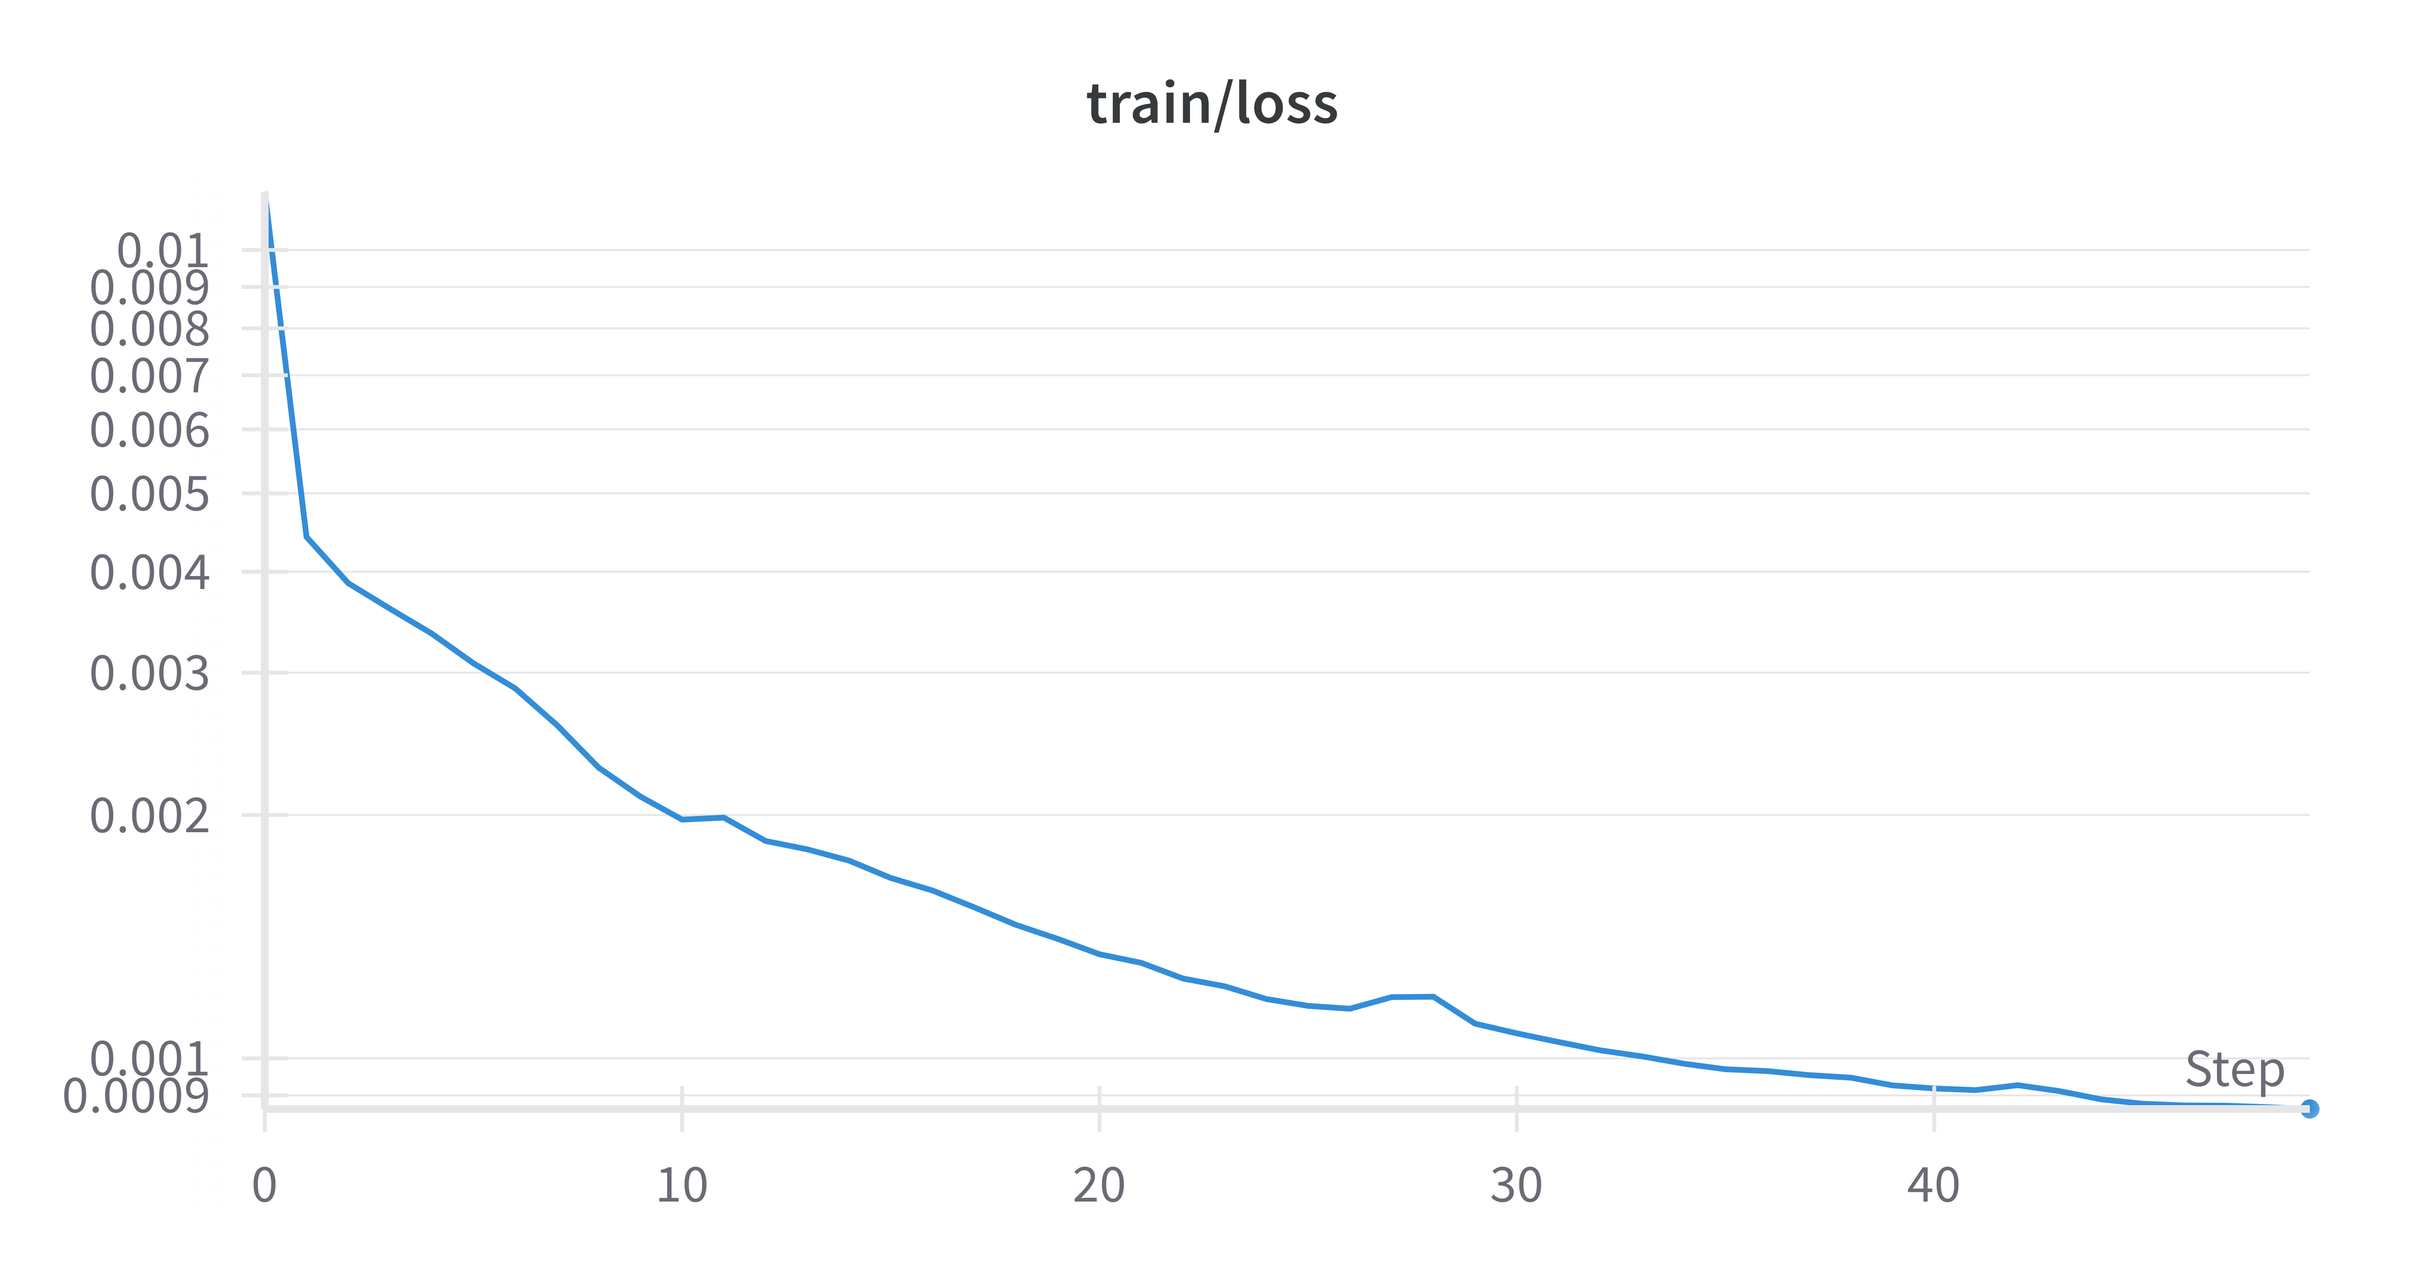
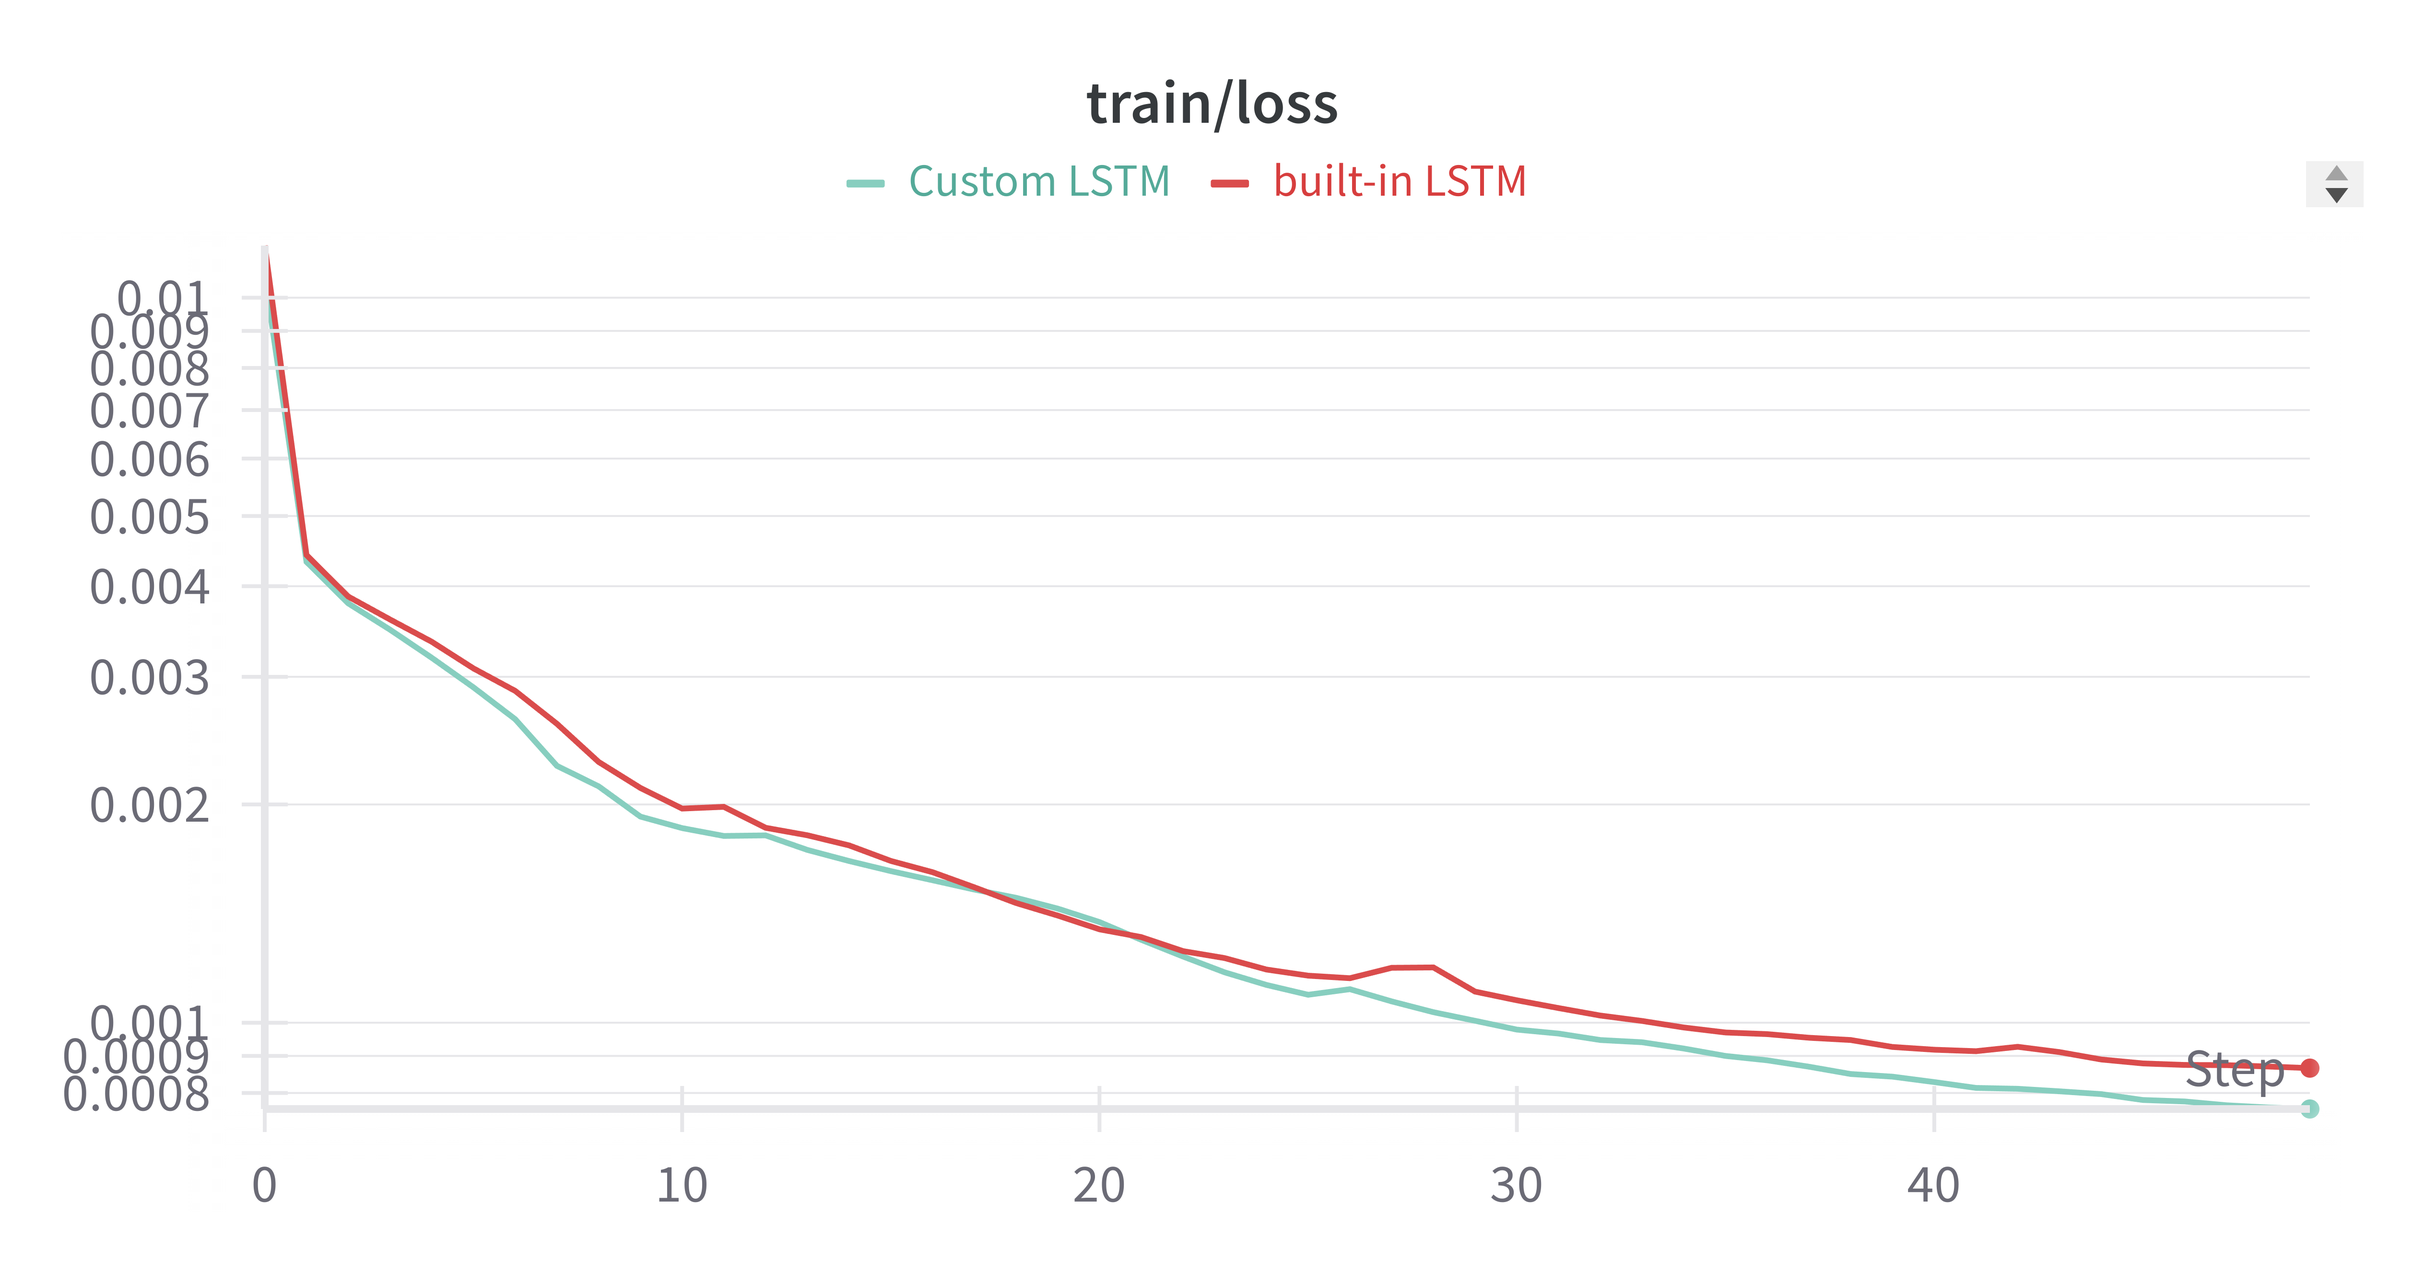
docs: expand README with detailed LSTM model implementation and evaluation
- Adds comprehensive details on LSTM-based world model architecture, training procedure, and results
- Includes custom LSTM layer implementation and comparison with built-in LSTM
- Describes rollout strategies and their evaluation, highlighting error accumulation and stability
- Proposes potential improvements such as scheduled sampling, transformer models, and data augmentation

diff --git a/hw2/submit/part1-rnn/README.md b/hw2/submit/part1-rnn/README.md
@@ -1,48 +1,253 @@
 # Part 1: Modeling World Dynamics with Recurrent Neural Networks
 
-## Task 1
+## Task 1: Define and Train an LSTM-based World Model
 
-- W&B Run: [ruby-wave-2](https://wandb.ai/liblaf-team/hw2-part1-rnn/runs/qxd37jgl)
-- Test Loss: `0.0011097531791569458`
+### Implementation Details
 
-###### Training Loss Curve
+The implementation used PyTorch's built-in `torch.nn.LSTM` layer. The LSTM model processes batched sequences of states and actions, outputting the predicted next state for each sequence in the batch.
 
-![Training Loss Curve](fig/task1/t1-train-loss.png)
+#### Data Preprocessing
 
-###### Validation Loss Curve
+- Each observation from the CarRacing environment is initially a $200 \times 200$ RGB image.
+- These images are downsampled to $32 \times 32$ to reduce computational load.
+- The preprocessed images are combined with action vectors to form the inputs to the LSTM model.
 
-![Validation Loss Curve](fig/task1/t1-val-loss.png)
+#### Model Architecture
 
-## Task 2
+- **Input Layer**: The input consists of a concatenation of the flattened image tensor and the action vector.
+- **LSTM Layer**: Captures temporal dependencies, crucial for effectively modeling sequence data.
+- **Output Layer**: A linear layer transforms the LSTM hidden states into the predicted next state.
 
-- W&B Run: [still-terrain-7](https://wandb.ai/liblaf-team/hw2-part1-rnn/runs/2e9l432o)
-- Test Loss: `0.0010881719515762394`
+Here's the core implementation of the LSTM model architecture:
 
-###### Training Loss Curve
+```python
+class WorldModel(nn.Module):
+    lstm: nn.LSTM
+    decoder: nn.Linear
 
-![Training Loss Curve](fig/task2/t2-train-loss.png)
+    def __init__(self, input_size: int, hidden_size: int, output_size: int) -> None:
+        super().__init__()
+        self.lstm = nn.LSTM(input_size=input_size, hidden_size=hidden_size)
+        self.decoder = nn.Linear(hidden_size, output_size)
 
-###### Validation Loss Curve
+    def forward(
+        self, state: BState, action: BAction, hidden: tuple[F1BH, F1BH]
+    ) -> tuple[BO, tuple[F1BH, F1BH]]:
+        batch_size: int = state.shape[0]
+        state_size: int = state.numel() // batch_size
+        action_size: int = action.numel() // batch_size
+        input_tensor: BI = torch.hstack(
+            [state.view(batch_size, state_size), action.view(batch_size, action_size)]
+        )
+        features, hidden = self.lstm(
+            input_tensor.view(1, batch_size, input_size), hidden
+        )
+        next_state_pred = self.decoder(features.view(batch_size, -1))
+        return next_state_pred, hidden
+```
 
-![Validation Loss Curve](fig/task2/t2-val-loss.png)
+### Training Procedure
 
-## Task 3
+- **Optimizer**: Adam optimizer with a learning rate of 0.0003.
+- **Loss Function**: Mean Squared Error (MSE) was used to measure the discrepancy between predicted and actual next states.
+- **Training Duration**: The model was trained for 50 epochs.
+- **Batch Size**: Set to 16.
+- **Sequence Length**: Each input sequence to the model contained 10 time steps.
 
-| Step |           Ground Truth            |           Teacher Forcing            |           Autoregressive Rollout            |
-| :--: | :-------------------------------: | :----------------------------------: | :-----------------------------------------: |
-|  0   | ![](fig/task3/ground-truth/0.png) | ![](fig/task3/teacher-forcing/0.png) | ![](fig/task3/autoregressive-rollout/0.png) |
-|  1   | ![](fig/task3/ground-truth/1.png) | ![](fig/task3/teacher-forcing/1.png) | ![](fig/task3/autoregressive-rollout/1.png) |
-|  2   | ![](fig/task3/ground-truth/2.png) | ![](fig/task3/teacher-forcing/2.png) | ![](fig/task3/autoregressive-rollout/2.png) |
-|  3   | ![](fig/task3/ground-truth/3.png) | ![](fig/task3/teacher-forcing/3.png) | ![](fig/task3/autoregressive-rollout/3.png) |
-|  4   | ![](fig/task3/ground-truth/4.png) | ![](fig/task3/teacher-forcing/4.png) | ![](fig/task3/autoregressive-rollout/4.png) |
-|  5   | ![](fig/task3/ground-truth/5.png) | ![](fig/task3/teacher-forcing/5.png) | ![](fig/task3/autoregressive-rollout/5.png) |
-|  6   | ![](fig/task3/ground-truth/6.png) | ![](fig/task3/teacher-forcing/6.png) | ![](fig/task3/autoregressive-rollout/6.png) |
-|  7   | ![](fig/task3/ground-truth/7.png) | ![](fig/task3/teacher-forcing/7.png) | ![](fig/task3/autoregressive-rollout/7.png) |
-|  8   | ![](fig/task3/ground-truth/8.png) | ![](fig/task3/teacher-forcing/8.png) | ![](fig/task3/autoregressive-rollout/8.png) |
-|  9   | ![](fig/task3/ground-truth/9.png) | ![](fig/task3/teacher-forcing/9.png) | ![](fig/task3/autoregressive-rollout/9.png) |
+The model's training and validation losses over epochs can be observed in the plot below:
 
-###### Rollout Loss Curve
+###### Training Loss
 
-![Loss](fig/task3/loss.png)
+![Training Loss](fig/task1/t1-train-loss.png)
 
-## Task 4
+###### Validation Loss
+
+![Validation Loss](fig/task1/t1-val-loss.png)
+
+### Results
+
+- **Test Loss**: `0.0011097531791569458`.
+
+The WandB run for this task can be viewed at [W&B Run](https://wandb.ai/liblaf-team/hw2-part1-rnn/runs/qxd37jgl).
+
+## Task 2: Implement an LSTM Layer from Scratch
+
+### Implementation Details
+
+#### Custom LSTM Architecture
+
+An LSTM cell consists of several components, primarily handling the various gates that regulate the flow of information:
+
+- **Input Gate** ($i_t$): Controls how much of the new input information flows into the cell state.
+- **Forget Gate** ($f_t$): Decides how much of the existing cell state information should be retained.
+- **Output Gate** ($o_t$): Determines which parts of the cell state are output to the hidden state.
+- **Cell State Update**: Integrates the new input and retained previous cell state information.
+
+The mathematical equations for these transformations are:
+
+$$
+\begin{align*}
+i_t &= \sigma(W_{xi} x_t + W_{hi} h_{t-1} + b_i) \\
+f_t &= \sigma(W_{xf} x_t + W_{hf} h_{t-1} + b_f) \\
+o_t &= \sigma(W_{xo} x_t + W_{ho} h_{t-1} + b_o) \\
+\tilde{c}_t &= \tanh(W_{xc} x_t + W_{hc} h_{t-1} + b_c) \\
+c_t &= f_t \cdot c_{t-1} + i_t \cdot \tilde{c}_t \\
+h_t &= o_t \cdot \tanh(c_t)
+\end{align*}
+$$
+
+#### Code Implementation
+
+The LSTM layer was implemented manually by explicitly defining these operations within the `LSTM` class, handling input transformation, state updates, and gate activations.
+
+```python
+class LSTM(nn.Module):
+    input_to_hidden: nn.Linear
+    hidden_to_hidden: nn.Linear
+    bias: nn.Parameter
+
+    def __init__(self, input_size: int, hidden_size: int) -> None:
+        super().__init__()
+        self.input_to_hidden = nn.Linear(input_size, 4 * hidden_size, bias=False)
+        self.hidden_to_hidden = nn.Linear(hidden_size, 4 * hidden_size, bias=False)
+        self.bias = nn.Parameter(torch.zeros(4 * hidden_size))
+
+    def forward(
+        self,
+        input: F1BI,
+        hidden: tuple[F1BH, F1BH],
+    ) -> tuple[BO, tuple[F1BH, F1BH]]:
+        hidden_state, cell_state = hidden
+        batch_size, input_size = input.shape[1], input.shape[-1]
+        hidden_size = hidden_state.shape[-1]
+
+        # Reshaping for batch processing
+        input = input.view(batch_size, input_size)
+        hidden_state = hidden_state.view(batch_size, hidden_size)
+        cell_state = cell_state.view(batch_size, hidden_size)
+
+        # LSTM gate operations
+        activation = (
+            self.input_to_hidden(input)
+            + self.hidden_to_hidden(hidden_state)
+            + self.bias
+        )
+
+        # Splitting and activating gates
+        ai, af, ao, ag = torch.split(activation, [hidden_size] * 4, dim=1)
+        input_gate = torch.sigmoid(ai)
+        forget_gate = torch.sigmoid(af)
+        output_gate = torch.sigmoid(ao)
+        block_input = torch.tanh(ag)
+
+        # Cell state and hidden state updates
+        next_cell_state = forget_gate * cell_state + input_gate * block_input
+        next_hidden_state = output_gate * torch.tanh(next_cell_state)
+
+        return next_hidden_state, (
+            next_hidden_state.view(1, batch_size, hidden_size),
+            next_cell_state.view(1, batch_size, hidden_size),
+        )
+```
+
+#### Model Training
+
+The training loop for this custom LSTM was kept consistent with Task 1 to enable a fair performance comparison:
+
+- **Optimizer**: Adam optimizer with a learning rate of 0.0003.
+- **Loss Function**: Mean Squared Error (MSE) to measure prediction accuracy.
+- **Epoch Count**: 50 epochs.
+- **Batch Size**: 16.
+
+### Results
+
+The plot below shows the learning curves for both the custom and built-in LSTM models:
+
+###### Training Loss
+
+![Training Loss](fig/task2/t2-train-loss.png)
+
+###### Validation Loss
+
+![Validation Loss](fig/task2/t2-val-loss.png)
+
+- **Test Loss**: `0.0010881719515762394`.
+
+The WandB run for this task can be viewed at [W&B Run](https://wandb.ai/liblaf-team/hw2-part1-rnn/runs/2e9l432o).
+
+### Comparison with Built-in LSTM
+
+The custom LSTM performed comparably to the built-in LSTM.
+
+## Task 3: Evaluate Model with Two Rollout Strategies
+
+### Experiment Setup
+
+- **Selected Sequence**: A specific sequence from the test set was selected to evaluate both rollout strategies.
+- **Steps Evaluated**: The rollout predictions span over 150 steps, allowing for a comprehensive comparison.
+- **Comparison Metrics**: Predictions were visually compared with ground truth frames. Additionally, loss metrics were used to quantify accuracy across steps.
+
+### Results and Observations
+
+#### Visual Comparison
+
+The following comparisons show predictions from both rollout strategies against ground truth over 10 steps:
+
+- **Teacher Forcing Rollout**:
+  - Generally maintains close alignment with ground truth frames because of accurate input information.
+  - The model performs well initially but over longer sequences, the reliance on perfect data may mask potential compounding errors in sequential tasks.
+- **Autoregressive Rollout**:
+  - Starts with good alignment but gradually diverges as errors compound over successive steps.
+  - Highlights the model's robustness (or lack thereof) in extrapolating future states from potentially imperfect data.
+
+**Examples**:
+
+| Step |                Ground Truth                |          Teacher Forcing Prediction           |              Autoregressive Prediction               |
+| :--: | :----------------------------------------: | :-------------------------------------------: | :--------------------------------------------------: |
+|  0   | ![GT Step 0](fig/task3/ground-truth/0.png) | ![TF Step 0](fig/task3/teacher-forcing/0.png) | ![AR Step 0](fig/task3/autoregressive-rollout/0.png) |
+|  1   | ![GT Step 1](fig/task3/ground-truth/1.png) | ![TF Step 1](fig/task3/teacher-forcing/1.png) | ![AR Step 1](fig/task3/autoregressive-rollout/1.png) |
+|  2   | ![GT Step 2](fig/task3/ground-truth/2.png) | ![TF Step 2](fig/task3/teacher-forcing/2.png) | ![AR Step 2](fig/task3/autoregressive-rollout/2.png) |
+|  3   | ![GT Step 3](fig/task3/ground-truth/3.png) | ![TF Step 3](fig/task3/teacher-forcing/3.png) | ![AR Step 3](fig/task3/autoregressive-rollout/3.png) |
+|  4   | ![GT Step 4](fig/task3/ground-truth/4.png) | ![TF Step 4](fig/task3/teacher-forcing/4.png) | ![AR Step 4](fig/task3/autoregressive-rollout/4.png) |
+|  5   | ![GT Step 5](fig/task3/ground-truth/5.png) | ![TF Step 5](fig/task3/teacher-forcing/5.png) | ![AR Step 5](fig/task3/autoregressive-rollout/5.png) |
+|  6   | ![GT Step 6](fig/task3/ground-truth/6.png) | ![TF Step 6](fig/task3/teacher-forcing/6.png) | ![AR Step 6](fig/task3/autoregressive-rollout/6.png) |
+|  7   | ![GT Step 7](fig/task3/ground-truth/7.png) | ![TF Step 7](fig/task3/teacher-forcing/7.png) | ![AR Step 7](fig/task3/autoregressive-rollout/7.png) |
+|  8   | ![GT Step 8](fig/task3/ground-truth/8.png) | ![TF Step 8](fig/task3/teacher-forcing/8.png) | ![AR Step 8](fig/task3/autoregressive-rollout/8.png) |
+|  9   | ![GT Step 9](fig/task3/ground-truth/9.png) | ![TF Step 9](fig/task3/teacher-forcing/9.png) | ![AR Step 9](fig/task3/autoregressive-rollout/9.png) |
+
+#### Quantitative Analysis
+
+- **Error Accumulation**: Through MSE calculations over the sequence, the autoregressive approach showed increased error accumulation compared to teacher forcing.
+- **Stability**: Teacher forcing provided stable predictions due to continuous corrections by true states, whereas autoregressive predictions were more prone to drift.
+
+![Loss Curve](fig/task3/loss.png)
+
+## Task 4: Question Answering
+
+### Potential Improvements
+
+#### 1. Incorporate Error-Feedback Mechanisms
+
+**Approach**: Implement mechanisms where the model can learn from its past prediction errors by integrating a feedback loop during training.
+
+- **Scheduled Sampling**: A technique that gradually transitions between teacher forcing and the model's own predictions during training. This method uses a probability schedule to decide whether each input will be the true data point or the model's predicted one. Scheduled Sampling mimics the test-time scenario during training, allowing the model to better handle the error propagation encountered in autoregressive sequences.
+
+**Justification**: By gradually exposing the model to its own predictions during training, it learns to adjust to and recover from minor errors, reducing predictive drift over longer horizons. This approach effectively prepares the model for autoregressive scenarios without overly relying on perfect data inputs.
+
+#### 2. Use a More Robust Model Architecture
+
+**Approach**: Implement a more robust architecture incorporating mechanisms designed to maintain temporal coherence and manage large dependencies over time. Examples include:
+
+- **Transformer Models**: Modern sequence prediction problems have benefited from transformer architectures that utilize attention mechanisms. Attention allows the model to focus on relevant parts of the sequence dynamically, which helps to mitigate error accumulation by emphasizing the sequence segments most pertinent to accurate predictions.
+- **Encoder-Decoder Structures with Attention**: These architectures provide the capability to remember and learn long-term dependencies more efficiently, potentially reducing drift in open-loop prediction scenarios.
+
+**Justification**: A transformer architecture captures long and short-term dependencies more effectively than traditional LSTMs. This is particularly beneficial in autoregressive rollouts as it enhances the model's ability to maintain prediction accuracy over longer sequences, even when preceding predictions contain small errors.
+
+#### 3. Data Augmentation and Diversity Enhancements
+
+**Approach**: Enhance the model's exposure to a diverse set of training sequences with augmented data that reflects a variety of conditions and errors.
+
+- **Noise Injection**: Add controlled noise to input sequences during training to teach the model how to handle uncertain or imperfect data.
+- **Synthetic Data Generation**: Generate synthetic sequences with known output behaviors to create scenarios reflecting diverse sequence dynamics and potential errors.
+
+**Justification**: By training the model on diverse and noise-augmented data, it becomes more resilient to the variations and uncertainties inherent in real-world scenario predictions. This encourages learning generalized patterns rather than overfitting to the training dataset's limited scope.
